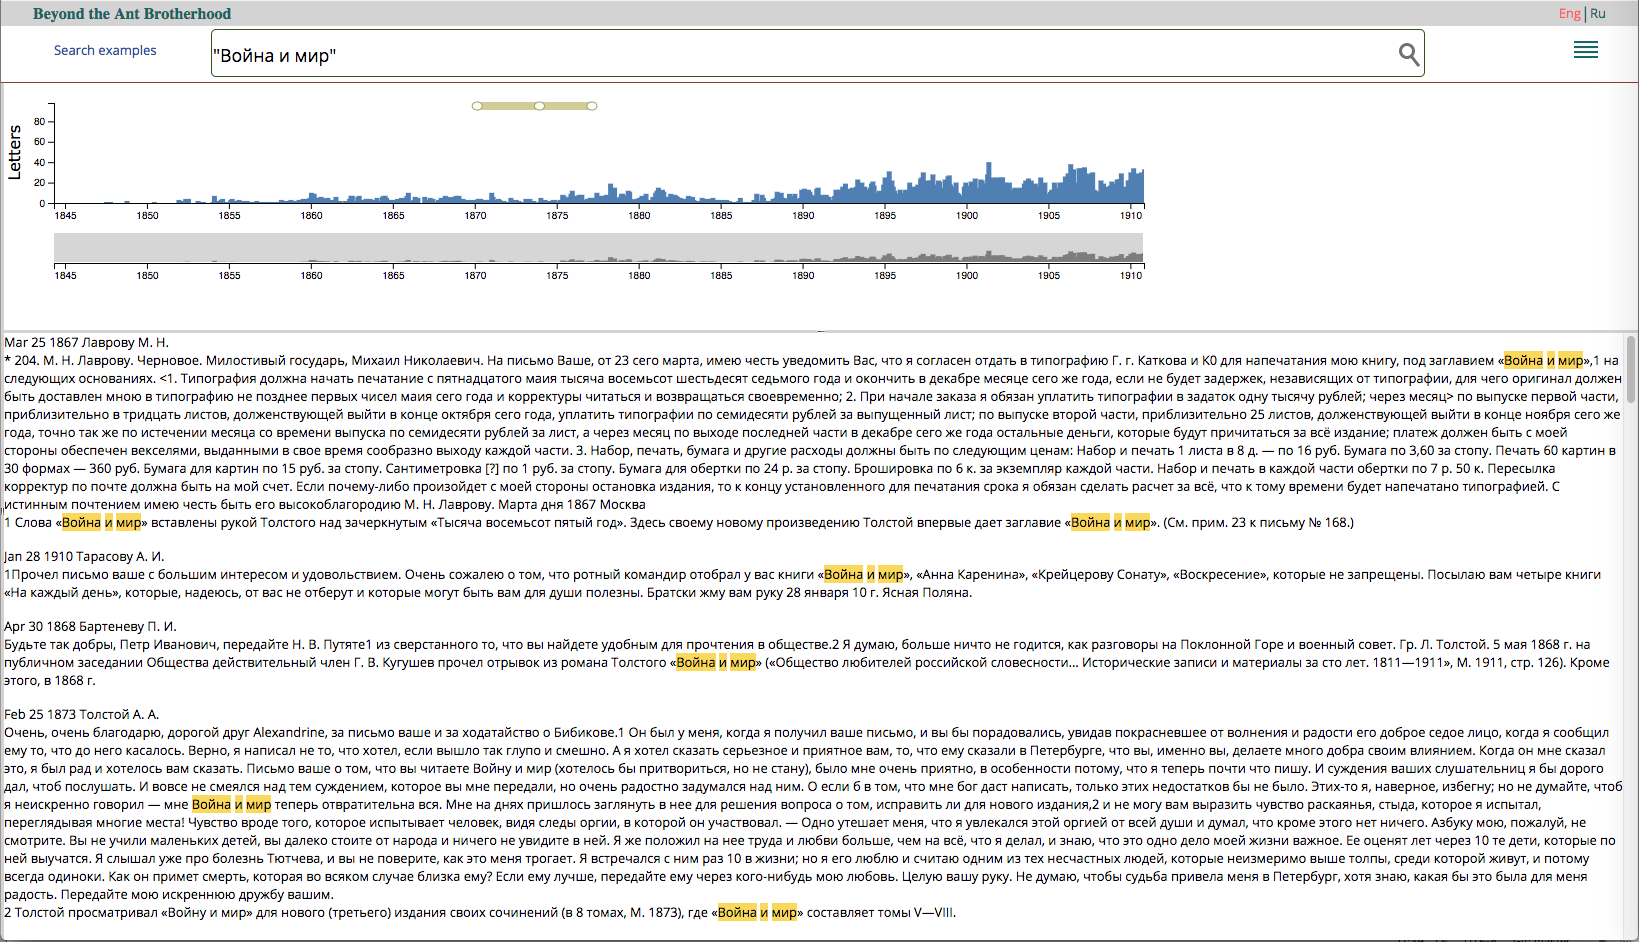
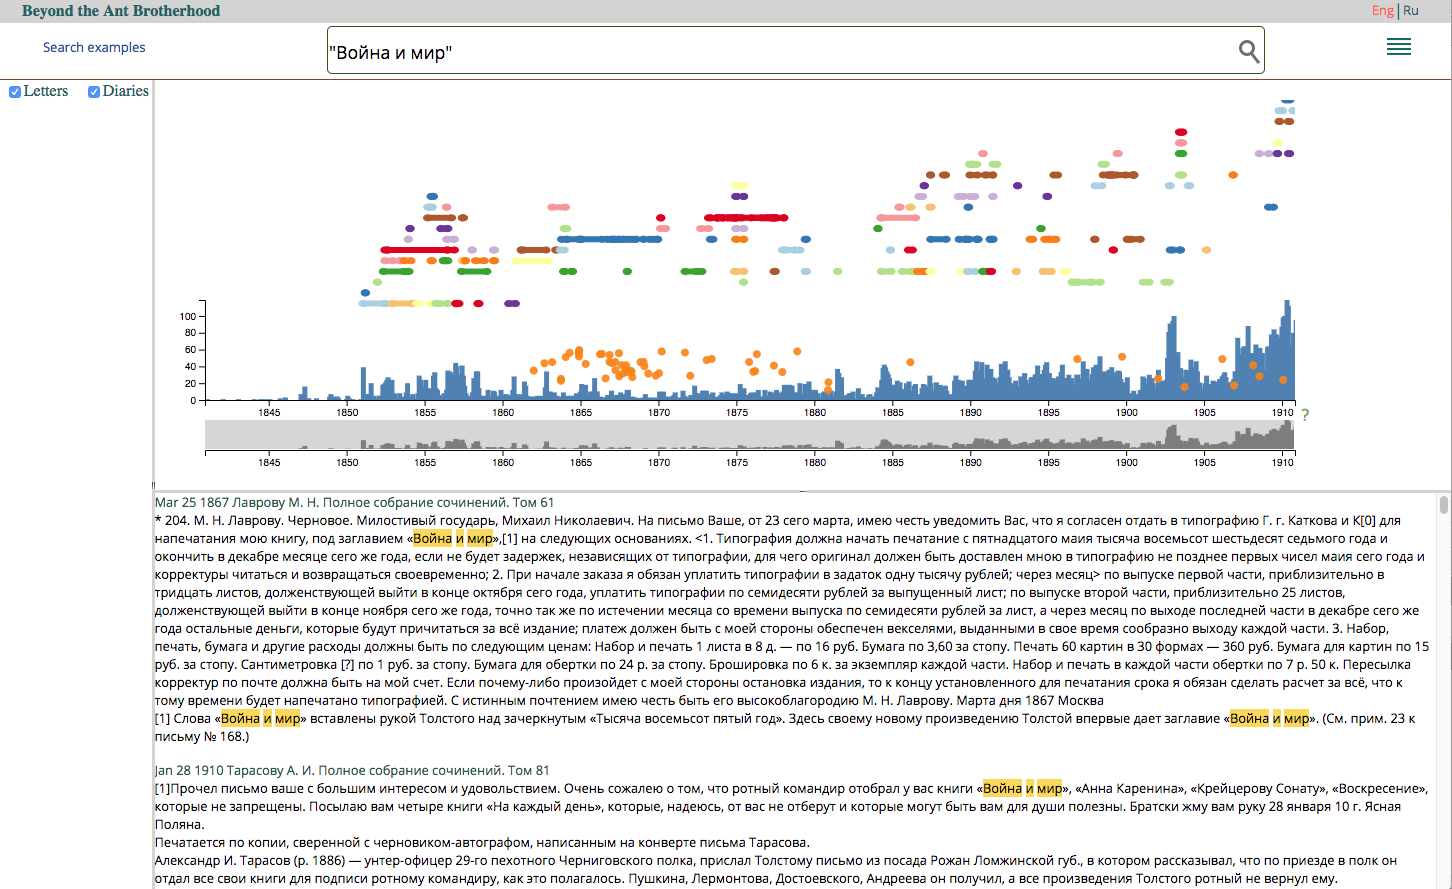
major redesign

diff --git a/web/Tolstoy.css b/web/Tolstoy.css
@@ -150,9 +150,9 @@ html, body {
 
 .flowMain {
 
-    background: #F5F1EA;
+    background: #ecf1e8;
     font-family: "Helvetica Neue";
-    max-width: 60em;
+    max-width: 65em;
     margin: auto;
     padding: 0 1em;
     color: #09352e;
@@ -267,13 +267,14 @@ html, body {
 .textPara {
 
     padding-top: 1.2em;
-    font-family: Helvetica Neue sans-serif;
+    font-family: 'Open Sans', sans-serif;
     color: #09352e;
-    width: 85%;
+    width: 92%;
     min-width: 10em;
     margin-left: 2em;
     text-align: justify;
     text-justify: inter-word;
+    font-size: 1.2em;
 }
 
 .langSel a {
@@ -325,10 +326,10 @@ html, body {
 
     font-family: 'Open Sans', sans-serif;
     font-size: 0.9em;
-    text-decoration: underline;
+    text-decoration: none;
     cursor: pointer;
-    text-decoration-color: #FF675D;
-    color: #FF675D;
+    /*text-decoration-color: #FF675D;*/
+    color: #009389;
 }
 
 .divider {
@@ -380,7 +381,7 @@ html, body {
 .hand {
     position: absolute;
     left: 1em;
-    top: 3em;
+    top: 0;
 
 }
 
@@ -804,5 +805,30 @@ gwt-PopupPanelGlass {
 }
 
 .chronology_panel {
+
+}
+
+.index_panel_style {
+
+    background: whitesmoke url(images/bckg_intro.jpg) no-repeat center center fixed;
+
+    -webkit-background-size: cover;
+    -moz-background-size: cover;
+    -o-background-size: cover;
+    background-size: cover;
+
+}
+
+.intro_image  {
+
+
+    width: 92%;
+    padding-left: 2.5em;
+
+}
+
+.email_panel {
+
+    padding-top: 5em;
 
 }

diff --git a/src/main/java/us/colloquy/tolstoy/client/Tolstoy.java b/src/main/java/us/colloquy/tolstoy/client/Tolstoy.java
@@ -226,7 +226,7 @@ public class Tolstoy implements EntryPoint, ValueChangeHandler<String>
 //        RootPanel.get("slot1").add(button);
 //        RootPanel.get("slot2").add(label);
 
-        flowPanelMain.setHeight((Window.getClientHeight() - 110) + "px");
+       // flowPanelMain.setHeight((Window.getClientHeight()) + "px");
 
         scrollPanel.setHeight((Window.getClientHeight() - 80) + "px");
 
@@ -237,7 +237,7 @@ public class Tolstoy implements EntryPoint, ValueChangeHandler<String>
                 public void run() {
 
                     mainContentScroll.setHeight((Window.getClientHeight() - 110) + "px");
-                    flowPanelMain.setHeight((Window.getClientHeight() - 110) + "px");
+                   // flowPanelMain.setHeight((Window.getClientHeight()) + "px");
                     scrollPanel.setHeight((Window.getClientHeight() - 80) + "px");
 
                 }
@@ -524,6 +524,8 @@ public class Tolstoy implements EntryPoint, ValueChangeHandler<String>
         String value = event.getValue();
         
         consoleLog("event" + value);
+
+        dockLayoutPanel.setWidgetHidden(contentPanel, true);  //hide first
 
         if ("show".equalsIgnoreCase(value))
         {
@@ -867,18 +869,24 @@ public class Tolstoy implements EntryPoint, ValueChangeHandler<String>
 
         mainPanel.clear();
         mainPanel.setWidget(mainContentScroll);
+
+        mainContentScroll.clear();
+
+        mainContentScroll.setStyleName("index_panel_style");
         
         flowPanelMain.clear();
+
+        mainContentScroll.setWidget(flowPanelMain);
 
         flowPanelMain.setStyleName("flowMain");
 
         Image img = new Image("images/searchEx1.png");
 
-        img.setWidth("90%");
+        img.setStyleName("intro_image");
 
         Image img2 = new Image("images/searchEx2.png");
 
-        img2.setWidth("90%");
+        img2.setStyleName("intro_image");
 
         HTML par7 = new HTML(constants.par7());
 
@@ -904,6 +912,12 @@ public class Tolstoy implements EntryPoint, ValueChangeHandler<String>
 //        flowPanelMain.add(dateSearchAnchor);
         flowPanelMain.add(new HTML("&nbsp;"));
         flowPanelMain.add(img);
+
+        HTML par11 = new HTML(constants.par11());
+
+        par11.addStyleName("textPara");
+
+        flowPanelMain.add(par11);
         flowPanelMain.add(img2);
 //        flowPanelMain.add(par9);
 //        flowPanelMain.add(lesMiserablesAnchor);
@@ -917,8 +931,15 @@ public class Tolstoy implements EntryPoint, ValueChangeHandler<String>
     private void setTechnical()
     {
         mainPanel.clear();
-        flowPanel.clear();
+        mainPanel.setWidget(mainContentScroll);
 
+        mainContentScroll.setStyleName("index_panel_style");
+
+        mainContentScroll.clear();
+
+        mainContentScroll.setWidget(flowPanelMain);
+
+        flowPanelMain.clear();
 
         HTML par1 = new HTML(constants.par1());
         par1.addStyleName("textPara");
@@ -937,18 +958,6 @@ public class Tolstoy implements EntryPoint, ValueChangeHandler<String>
 
         HTML par5 = new HTML(constants.par5());
 
-//        Image img = new Image("kibana-ex1.png");
-//
-//        img.setWidth("90%");
-
-        Image img = new Image("images/searchEx1.png");
-
-        img.setWidth("90%");
-
-        Image img2 = new Image("images/searchEx2.png");
-
-        img2.setWidth("90%");
-
         par5.addStyleName("textPara");
 
         HTML par6 = new HTML(constants.par6());
@@ -960,33 +969,35 @@ public class Tolstoy implements EntryPoint, ValueChangeHandler<String>
         par7.addStyleName("textPara");
 
         //  VerticalPanel panel = new VerticalPanel();
-        flowPanel.addStyleName("flow");
+
 
         // flowPanel.add(titleBar);
 
 
-        flowPanel.add(par1);
-        flowPanel.add(par2);
-        flowPanel.add(par3);
-        flowPanel.add(par4);
-        flowPanel.add(par5);
+        flowPanelMain.add(par1);
+        flowPanelMain.add(par2);
+        flowPanelMain.add(par3);
+        flowPanelMain.add(par4);
+        flowPanelMain.add(par5);
 //        flowPanel.add(dateSearchAnchor);
-        flowPanel.add(new HTML("&nbsp;"));
-        flowPanel.add(img);
-        flowPanel.add(img2);
-        flowPanel.add(par6);
-        flowPanel.add(new HTML("&nbsp;"));
-        flowPanel.add(par7);
+        flowPanelMain.add(new HTML("&nbsp;"));
+
+        flowPanelMain.add(par6);
+        flowPanelMain.add(new HTML("&nbsp;"));
+        flowPanelMain.add(par7);
 
     }
 
 
     private void setComment()
     {
+        mainPanel.clear();
 
         flowPanelMain.clear();
 
         flowPanelMain.setStyleName("flowComments");
+
+        mainPanel.setWidget(flowPanelMain);
 
         VerticalPanel verticalPanel = new VerticalPanel();
 
@@ -1090,6 +1101,7 @@ public class Tolstoy implements EntryPoint, ValueChangeHandler<String>
         verticalPanel.add(hand);
 
         HorizontalPanel emailPanel = new HorizontalPanel();
+        emailPanel.setStyleName("email_panel");
 
         emailPanel.add(emailAddress);
         HorizontalPanel commentPanel = new HorizontalPanel();

diff --git a/src/main/java/us/colloquy/util/Mailer.java b/src/main/java/us/colloquy/util/Mailer.java
@@ -13,10 +13,10 @@ import java.util.Properties;
  */
 public class Mailer
 {
-    public static void sendFeedback(String email, String messageBody)
+    public static void sendFeedback(String email, String messageBody, Properties properties)
     {
-        final String username = "";
-        final String password = "";
+        final String username = properties.getProperty("user");
+        final String password = properties.getProperty("cred");
 
         Properties props = new Properties();
         props.put("mail.smtp.host", "smtp.gmail.com");
@@ -36,15 +36,9 @@ public class Mailer
         {
 
             Message message = new MimeMessage(session);
-            message.setFrom(new InternetAddress(""));
-            InternetAddress [] address = new InternetAddress[1] ;
+            message.setFrom(new InternetAddress(email));
 
-            InternetAddress add = new InternetAddress("peter.gershkovich@yale.edu");
-            address[0] = add;
-
-            message.addFrom(address);
-            message.setRecipients(Message.RecipientType.TO,
-                    InternetAddress.parse(""));
+            message.setRecipients(Message.RecipientType.TO, InternetAddress.parse(username, false));
 
             message.setSubject(StringUtils.abbreviate(messageBody, 30));
 

diff --git a/src/main/java/us/colloquy/util/PropertiesLoader.java b/src/main/java/us/colloquy/util/PropertiesLoader.java
@@ -23,16 +23,19 @@ public class PropertiesLoader
 
         try
         {
-            propertiesFileInputStream = PropertiesLoader.class.getClassLoader().getResourceAsStream("properties" + File.separator + propertiesFile);
+            propertiesFileInputStream = PropertiesLoader.class.getClassLoader().getResourceAsStream("properties" + File.separator + "properties.xml");
 
             if ( propertiesFileInputStream != null )
             {
 
                 properties.loadFromXML(propertiesFileInputStream);
 
+
                 properties.list(System.out);
 
                 propertiesFileInputStream.close();
+
+
             }
             else
             {
@@ -53,13 +56,13 @@ public class PropertiesLoader
                 try
                 {
                     propertiesFileInputStream.close();
-
                 } catch ( IOException e )
                 {
                     // Do nothing.
                 }
             }
         }
+
     }
 
 

diff --git a/src/main/java/us/colloquy/tolstoy/server/TolstoyServiceImpl.java b/src/main/java/us/colloquy/tolstoy/server/TolstoyServiceImpl.java
@@ -30,28 +30,24 @@ public class TolstoyServiceImpl extends RemoteServiceServlet implements TolstoyS
 {
 
     private static final String SCATTER_PLOT_HEADER = "date,words,info\n";
+
     final Properties properties = new Properties();
 
     final Logger logger = Logger.getLogger(TolstoyServiceImpl.class.getPackage().getName());
 
 
-    @Before
-    public void setUp()
-    {
-
-        PropertiesLoader.loadProperties(properties, "properties.xml");
-
-    }
 
     // Implementation of sample interface method
     public String submitComments(String email, String msg)
     {
+        PropertiesLoader.loadProperties(properties, "properties.xml");
+
         try
         {
 
             if (EmailValidator.getInstance().isValid(email))
             {
-                Mailer.sendFeedback(email, msg);
+                Mailer.sendFeedback(email, msg, properties);
                 return "success";
             } else
             {

diff --git a/src/main/java/us/colloquy/tolstoy/client/TolstoyConstants.java b/src/main/java/us/colloquy/tolstoy/client/TolstoyConstants.java
@@ -122,4 +122,6 @@ public interface TolstoyConstants extends Constants {
     String lettersCheckboxLabel();
 
     String documentTerm();
+
+    String par11();
 }
